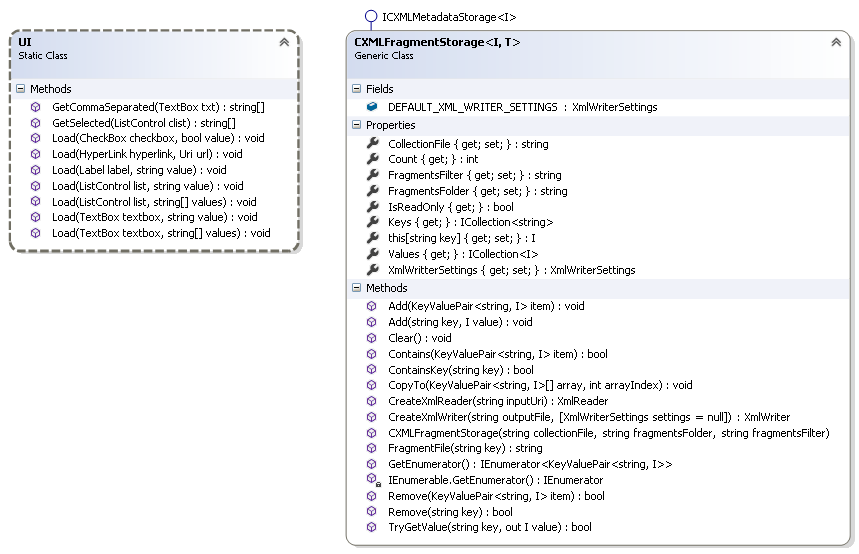
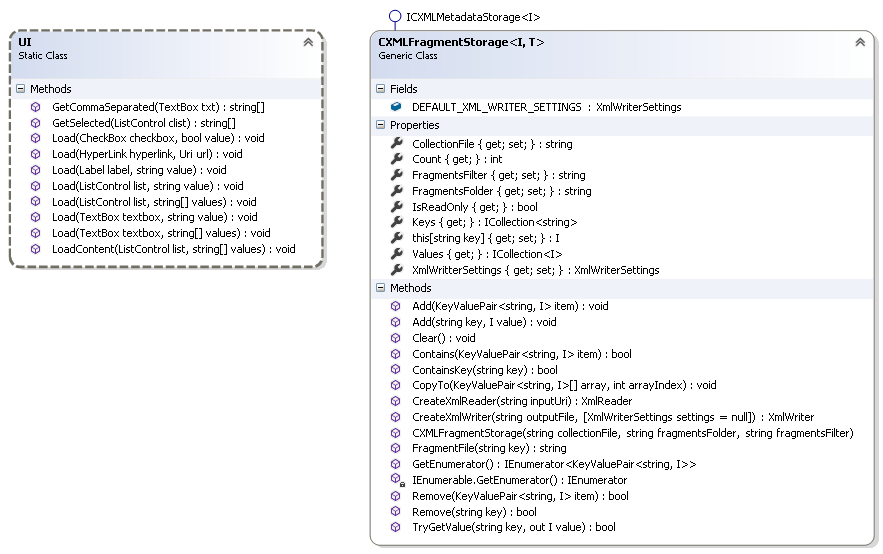
- Updated NiuGet package Trafilm.Metadata used - Updated diagrams

Changed region(s): [[0.0, 0.0, 0.9686, 1.0], [0.0303, 0.0307, 0.1513, 0.0614], [0.9686, 0.0614, 0.9988, 0.0921]]

diff --git a/conversation/metadata/default.aspx.cs b/conversation/metadata/default.aspx.cs
@@ -100,10 +100,10 @@ namespace Trafilm.Gallery
       //Calculated properties//
 
       UI.Load(lblL3languagesCount, metadata.L3languagesCount.ToString());
-      clistL3languages.DataSource = metadata.L3languages;
+      UI.LoadContent(clistL3languages, metadata.L3languages); //do not use Load, use LoadContent to add values, not select them
 
       UI.Load(lblL3languageTypesCount, metadata.L3languageTypesCount.ToString());
-      clistL3languageTypes.DataSource = metadata.L3languageTypes;
+      UI.LoadContent(clistL3languageTypes, metadata.L3languageTypes); //do not use Load, use LoadContent to add values, not select them
 
       UI.Load(lblL3occurenceCount, metadata.L3occurenceCount.ToString());
     }

diff --git a/utils/UI.cs b/utils/UI.cs
@@ -1,6 +1,6 @@
 //Project: Trafilm.Gallery (http://github.com/zoomicon/Trafilm.Gallery)
 //Filename: UI.cs
-//Version: 20160516
+//Version: 20160522
 
 using System;
 using System.Collections.Generic;
@@ -27,6 +27,12 @@ namespace Trafilm.Gallery
     }
 
     //
+
+    public static void LoadContent(ListControl list, string[] values)
+    {
+      list.DataSource = values;
+      list.DataBind();
+    }
 
     public static void Load(ListControl list, string[] values)
     {
